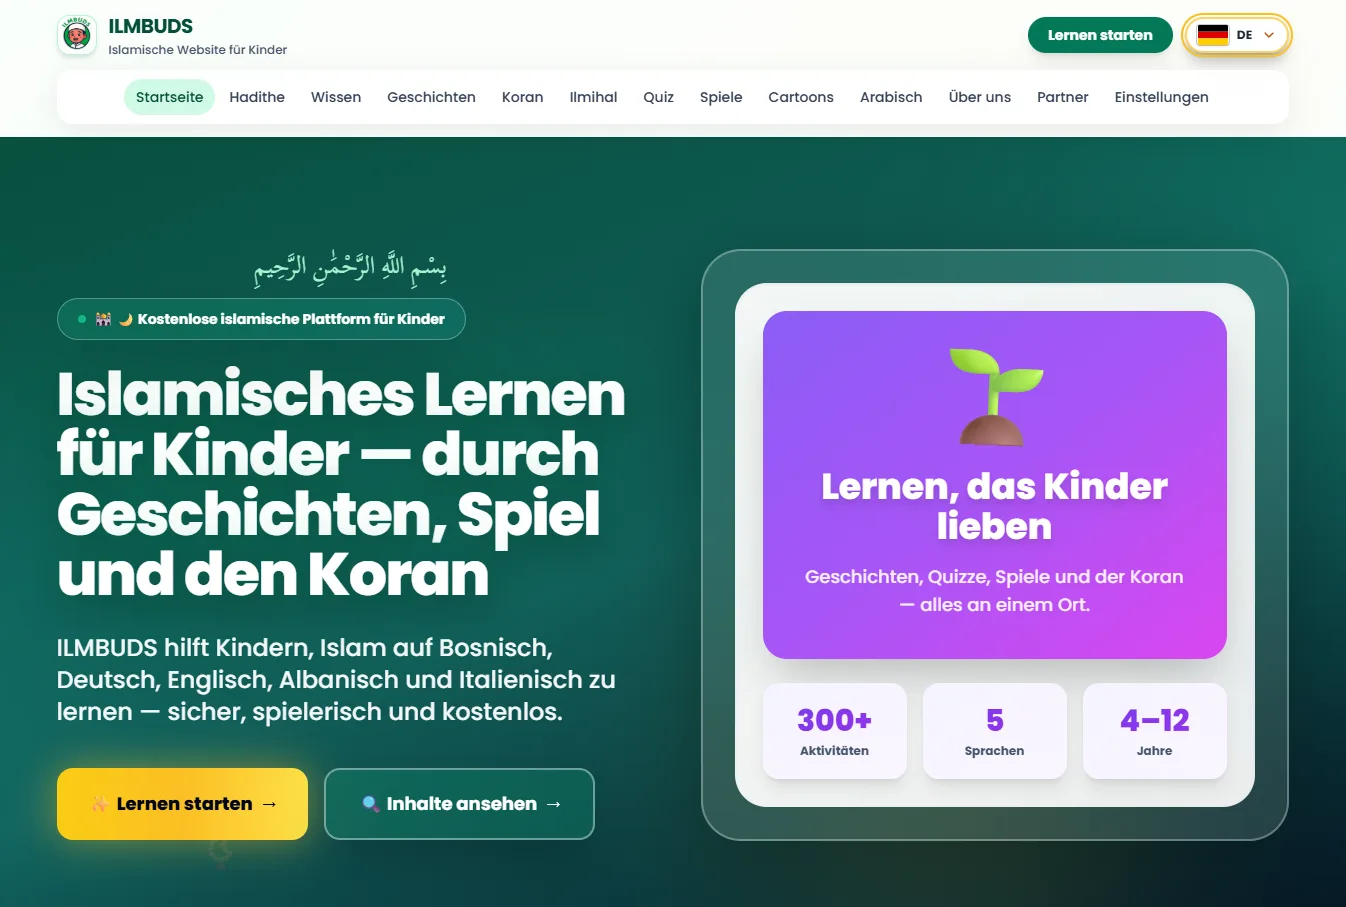
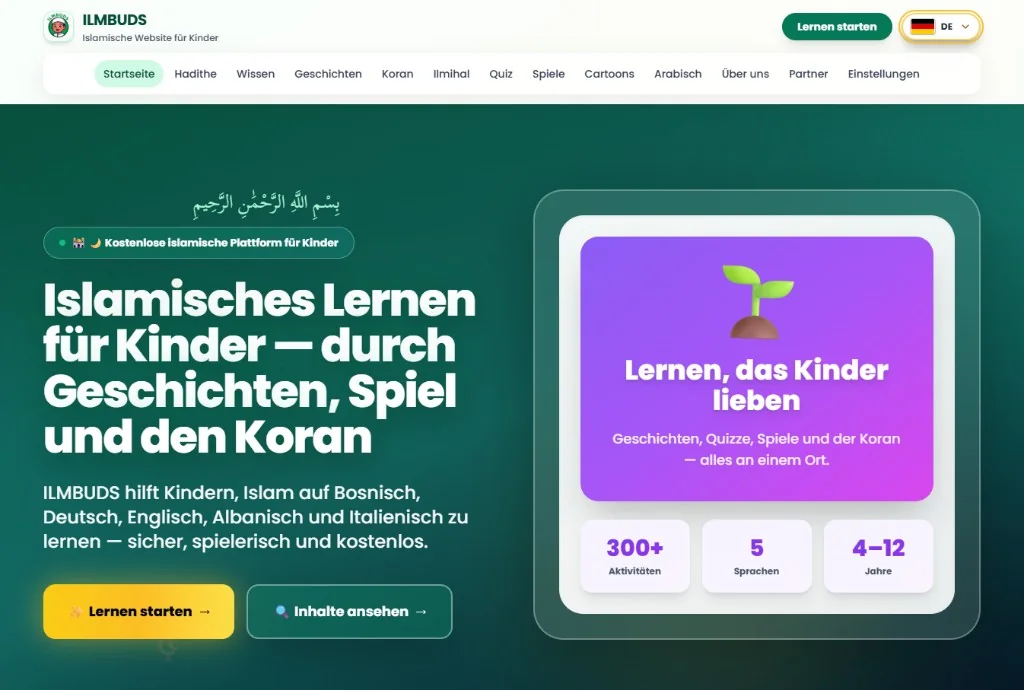
Add ILMBUDS live website to the portfolio with the new homepage screenshot.

Changed region(s): [[0.0625, 0.8826, 0.2188, 0.9435], [0.875, 0.0304, 0.9375, 0.0609], [0.7188, 0.4261, 0.75, 0.4565]]

diff --git a/client/src/lib/portfolioPageI18n.ts b/client/src/lib/portfolioPageI18n.ts
@@ -38,6 +38,7 @@ export interface PortfolioPageCopy {
     aisaOsmani: PortfolioProjectCopy;
     fixbike: PortfolioProjectCopy;
     enchantedChronicles: PortfolioProjectCopy;
+    ilmbuds: PortfolioProjectCopy;
     theirrealm: {
       title: string;
       subtitle: string;
@@ -139,6 +140,13 @@ const en: PortfolioPageCopy = {
         "Multilingual fantasy storytelling website — illustrated tales, SEO/AEO/GEO structure and live at theenchantedchronicles.com.",
       liveCta: "View live website",
       gradeBadge: "Live · Storytelling",
+    },
+    ilmbuds: {
+      title: "ILMBUDS",
+      description:
+        "Islamic learning website for children — stories, quizzes, games and Quran content in Bosnian, German, English, Albanian and Italian. Live at ilmbuds.com.",
+      liveCta: "View live website",
+      gradeBadge: "Live · Education",
     },
     theirrealm: {
       title: "theirrealmtv CAT",
@@ -242,6 +250,13 @@ const de: PortfolioPageCopy = {
         "Mehrsprachige Fantasy-Website mit magischen Geschichten — SEO, AEO und GEO optimiert, live unter theenchantedchronicles.com.",
       liveCta: "Website live ansehen",
       gradeBadge: "Live · Storytelling",
+    },
+    ilmbuds: {
+      title: "ILMBUDS",
+      description:
+        "Islamische Lernplattform für Kinder — Geschichten, Quiz, Spiele und Koran auf Bosnisch, Deutsch, Englisch, Albanisch und Italienisch. Live unter ilmbuds.com.",
+      liveCta: "Website live ansehen",
+      gradeBadge: "Live · Bildung",
     },
     theirrealm: {
       title: "theirrealmtv CAT",

diff --git a/client/src/components/PortfolioShowcase.tsx b/client/src/components/PortfolioShowcase.tsx
@@ -28,6 +28,8 @@ const FIXBIKE_LIVE = "https://fixbike.online/";
 const FIXBIKE_IMG = "/portfolio/referenzen/03-fixbike.webp";
 const ENCHANTED_CHRONICLES_LIVE = "https://www.theenchantedchronicles.com/";
 const ENCHANTED_CHRONICLES_IMG = "/portfolio/referenzen/05-enchanted-chronicles.webp";
+const ILMBUDS_LIVE = "https://www.ilmbuds.com/";
+const ILMBUDS_IMG = "/portfolio/referenzen/04-ilmbuds.webp";
 const LIVE_BTN =
   "inline-flex items-center gap-2 rounded-lg bg-white px-5 py-2.5 text-sm font-semibold text-[#0a0a0f] transition hover:bg-white/90";
 
@@ -303,6 +305,20 @@ export default function PortfolioShowcase() {
                     className={LIVE_BTN}
                   >
                     {p.projects.enchantedChronicles.liveCta}
+                    <ExternalLink className="h-4 w-4" aria-hidden />
+                  </a>
+                </ProjectCard>
+                <ProjectCard
+                  image={ILMBUDS_IMG}
+                  title={p.projects.ilmbuds.title}
+                  description={p.projects.ilmbuds.description}
+                  pillarLabel={p.categories.web.title}
+                  pillarIcon={LayoutGrid}
+                  pillarClass={webPillarClass}
+                  gradeBadge={p.projects.ilmbuds.gradeBadge}
+                >
+                  <a href={ILMBUDS_LIVE} target="_blank" rel="noopener noreferrer" className={LIVE_BTN}>
+                    {p.projects.ilmbuds.liveCta}
                     <ExternalLink className="h-4 w-4" aria-hidden />
                   </a>
                 </ProjectCard>

diff --git a/client/src/data/caseStudies.ts b/client/src/data/caseStudies.ts
@@ -101,7 +101,7 @@ export const CASE_STUDIES: CaseStudy[] = [
     industry: "Bildungs-App & Webauftritt",
     location: "International / EU",
     liveUrl: "https://www.ilmbuds.com/",
-    heroImage: "https://images.unsplash.com/photo-1522202176988-66273c2fd55f?ixlib=rb-4.0.3&auto=format&fit=crop&w=1200&h=600",
+    heroImage: "/portfolio/referenzen/04-ilmbuds.webp",
     problem: [
       "Komplexes Produkt (Bildungs-App) brauchte einen verständlichen Web-Auftritt für Eltern, Lehrkräfte und Partner.",
       "Unklare Kommunikation des Nutzens und der Funktionen auf einer einzigen Landingpage.",
